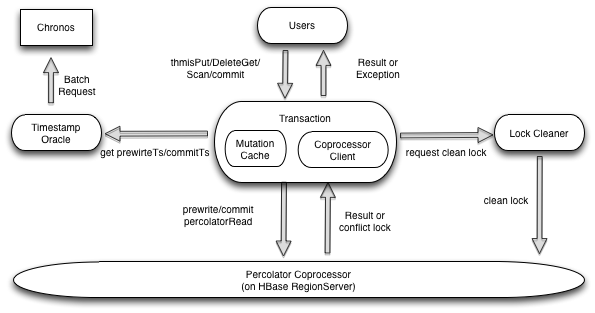
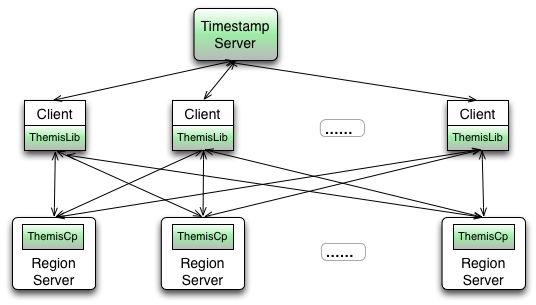
polish readme

Changed region(s): [[0.0, 0.0, 1.0, 1.0], [0.1791, 0.6197, 0.209, 0.6492]]

diff --git a/readme.md b/readme.md
@@ -4,112 +4,56 @@
 
 Themis provides cross-row/cross-table transaction on HBase based on [google's percolator](http://research.google.com/pubs/pub36726.html).
 
-Themis guarantees the ACID characteristics of cross-row transaction by two-phase commit and conflict resolution, which is based on the single-row transaction of HBase. Themis depends on [chronos](https://github.com/XiaoMi/chronos) to provide global strictly incremental timestamp, which defines the global order for transactions and makes themis could read database snapshot before given timestamp. Themis adopts HBase coprocessor framework, which could serve after loading themis coprocessors without changing source code of HBase. The APIs of themis are similar with HBase's, including themisPut/themisDelete/themisGet/themisScan. We validate the correctness of themis for a few months, and try to optimize the [percolator](http://research.google.com/pubs/pub36726.html) algorithm to achieve better performance.
+Themis guarantees the ACID characteristics of cross-row transaction by two-phase commit and conflict resolution, which is based on the single-row transaction of HBase. Themis depends on [Chronos](https://github.com/XiaoMi/chronos) to provide global strictly incremental timestamp, which defines the global order for transactions and makes themis could read database snapshot before given timestamp. Themis adopts HBase coprocessor framework, which could be applied without changing source code of HBase. We validate the correctness of themis for a few months, and optimize the algorithm to achieve better performance.
 
-## Example of Themis API
+## Implementation 
 
-### themisPut 
-
-    Configuration conf = HBaseConfiguration.create();
-    HConnection connection = HConnectionManager.createConnection(conf);
-    Transaction transaction = new Transaction(conf, connection);
-    ThemisPut put = new ThemisPut(ROW).add(FAMILY, QUALIFIER, VALUE);
-    transaction.put(TABLENAME, put);
-    put = new ThemisPut(ANOTHER_ROW).add(FAMILY, QUALIFIER, VALUE);
-    transaction.put(TABLENAME, put);
-    transaction.commit();
-
-### themisDelete 
-
-     Transaction transaction = new Transaction(conf, connection);
-     ThemisDelete delete = new ThemisDelete(ROW);
-     delete.deleteColumn(FAMILY, QUALIFIER);
-     transaction.delete(TABLENAME, delete);
-     delete = new ThemisDelete(ANOTHER_ROW);
-     delete.deleteColumn(FAMILY, QUALIFIER);
-     transaction.delete(TABLENAME, delete);
-     transaction.commit();
-
-In above code, the mutations of two rows will both be applied to HBase and visiable to read after transaction.commit() finished. If transaction.commit() failed, neither of the two mutations will be visiable to read.
-
-### themisGet 
-
-    Transaction transaction = new Transaction(conf, connection);
-    ThemisGet get = new ThemisGet(ROW).addColumn(FAMILY, QUALIFIER);
-    Result resultA = transaction.get(TABLENAME, get);
-    get = new ThemisGet(ANOTHER_ROW).addColumn(FAMILY, QUALIFIER);
-    Result resultB = transaction.get(TABLENAME, get);
-    // themisGet will return consistent results from ROW and ANOTHER_ROW 
-
-### themisScan
-
-    Transaction transaction = new Transaction(conf, connection);
-    ThemisScan scan = new ThemisScan();
-    scan.addColumn(FAMILY, QUALIFIER);
-    ThemisScanner scanner = transaction.getScanner(TABLENAME, scan);
-    Result result = null;
-    while ((result = scanner.next()) != null) {
-      // themisScan will return consistent state of database
-      int value = Bytes.toInt(result.getValue(FAMILY, QUALIFIER));
-    }
-    scanner.close();
-
-Themis will get a timestamp from chronos before transaction starts, and will promise to read the database snapshot before the timestamp.
-
-For more example code, please see [Example.java](https://github.com/XiaoMi/themis/blob/master/themis-client/src/main/java/org/apache/hadoop/hbase/themis/example/Example.java)
-
-## Principal and Implementation 
-
-### Principal
-
-**Themis Write:**
-
-1. Select one column as primaryColumn and others as secondaryColumns from mutations of users. Themis will construct persistent lock for each column.
-2. Prewrite-Phase: get timestamp from chronos(denoted as prewriteTs), write data and persistent lock to HBase with timestamp=prewriteTs when no write/write conflicts discovered.
-3. After prewrite-phase finished, get timestamp from chronos(denoted as commitTs) and commit primaryColumn: erase the persistent lock and write the commit information with timestamp=commitTs if the persistent lock of primaryColumn is not deleted.
-4. After primaryColumn committed, commit secondaryColumns: erase the persistent lock and write the commit information with timestamp=commitTs for each secondaryColumns.
-
-Themis applies transaction mutations by two-phase write(prewrite/commit). The transaction will success and be visiable to read if primaryColumn is committed succesfully; otherwise, the transaction will fail and can't be read.
-
-**Themis Read:**
-
-1. Get timestamp from chronos(named startTs), check the read/write conflicts.
-2. Read the snapshot of database before startTs when there are no read/write conflicts.
-
-Themis provides the guarantee to read all transactions with commitTs smaller than startTs, which is the snapshot of database before startTs.
-
-**Conflict Resolution:**
-
-There might be write/write and read/write conflicts as described. Themis will use the timestamp saved in persistent lock to judge whether the conflict transaction is expired. If the conflict transaction is expired, the current transaction will do rollback or commit for the conflict transaction according to whether the primaryColumn of conflict transcation is committed; otherwise, the current transaction will fail.
-
-Please see [google's percolator](http://research.google.com/pubs/pub36726.html) for more details.
-
-### Themis Implementation
-
-The implementation of Themis adopts the HBase coprocessor framework, the following picture gives the modules of Themis:
+Themis contains three components: timestamp server, client library, themis coprocessor.
 
 ![themis_architecture](https://raw.githubusercontent.com/XiaoMi/themis/master/themis_architecture.png)
 
-**Themis Client:**
+**Timestamp Server**
 
-1. Transaction: provides APIs of themis, including themisPut/themisGet/themisDelete/themisScan/commit.
-2. MutationCache: index the mutations of users by rows in client side.
-3. ThemisCoprocessorClient: the client to access themis coprocessor.
-4. TimestampOracle: the client to query [chronos](https://github.com/XiaoMi/chronos), which will cache the timestamp requests and issue batch request to chronos in one rpc.
-5. LockCleaner: resovle write/write conflict and read/write conflict.
+Themis uses the timestamp of HBase's KeyValue internally, and the timestamp must be global strictly incremental. Themis depends on [chronos](https://github.com/XiaoMi/chronos) to provide such timestamp service.
 
-Themis client will manage the users's mutations by row and invoke methods of ThemisCoprocessorClient to do prewrite/commit for each row.
+**Client Library**
+
+1. Provide transaction APIs.
+2. Fetch timestamp from chronos.
+3. Issue requests to themis coprocessor in server-side.
+4. Resolve conflict for concurrent mutations of other clients.
 
 **Themis Coprocessor:**
 
-1. ThemisProtocol/ThemisCoprocessorImpl: definition and implementation of the themis coprocessor interfaces. The major interfaces are prewrite/commit/themisGet.
-2. ThemisServerScanner/ThemisScanObserver: implement themis scan logic.
-3. ThemisRegionObserver: single-row write optimization, add data clean filter to the scanner of flush and compaction.
-4. ThemisMasterObserver: automatically add lock family when users creating table, set timestamp for data clean periodly.
+1. Provide RPC methods for two-phase commit and read.
+2. Create auxiliary families and set family attributes for the algorithm automatically.
+3. Periodically clean the data of the aborted and expired transactions.
 
 ## Usage 
 
-### Loads themis coprocessor in server side 
+### Build 
+
+1. get the latest source code of Themis:
+
+     ```
+     git clone git@github.com:XiaoMi/themis.git 
+     ```
+
+2. the master branch of Themis depends on hbase 0.94.21 with hadoop.version=2.0.0-alpha. We can download source code of hbase 0.94.21 and install in maven local repository by:
+   
+     ```
+     (in the directory of hbase 0.94.21)
+     mvn clean install -DskipTests -Dhadoop.profile=2.0
+     ```
+
+3. build Themis:
+
+     ```
+     cd themis
+     mvn clean package -DskipTests
+     ```
+
+### Loads themis coprocessor in HBase: 
 
 1. add themis-coprocessor dependency in the pom of HBase:
 
@@ -135,67 +79,163 @@ Themis client will manage the users's mutations by row and invoke methods of The
 
      ```
 
-3. For familiy needs themis, set THEMIS_ENABLE to 'true' by adding "CONFIG => {'THEMIS_ENABLE', 'true'}" to the family descriptor when creating table. 
-
-### Depends themis-client
+### Depends themis-client:
 
 add the themis-client dependency to pom of project which needs cross-row transactions.
 
+     ```
      <dependency>
        <groupId>com.xiaomi.infra</groupId>
        <artifactId>themis-client</artifactId>
        <version>1.0-SNAPSHOT</version>
      </dependency>
+     ```
 
-### Run example code
+### Run the example code
 
-1. the master branch depends on hbase 0.94.21 with hadoop.version=2.0.0-alpha. We need download source code of hbase 0.94.21 and install in maven local repository by(in the directory of hbase 0.94.21):
-   
-     mvn clean install -DskipTests -Dhadoop.profile=2.0
+1. start a standalone HBase cluster(0.94.21 with hadoop.version=2.0.0-alpha) and make sure themis-coprocessor is loaded as above steps.
 
-2. install themis in maven local repository(in the directory of themis):
-
-     mvn clean install -DskipTests
-
-3. start a standalone HBase cluster(0.94.21 with hadoop.version=2.0.0-alpha) and make sure themis-coprocessor is loaded as above steps.
-
-4. run "org.apache.hadoop.hbase.themis.example.Example.java" by:
+2. after building Themis, run example code by:
      
+     ```
      mvn exec:java -Dexec.mainClass="org.apache.hadoop.hbase.themis.example.Example"
+     ```
   
-The result of themisPut/themisGet/themisDelete/themisScan will output to screen.
+The screen will output the result of read and write transactions.
 
-### Themis Options
+## Example of Themis API
 
-**Use Chronos As Timestamp Oracle**
+The APIs of Themis are defined in TransactionInterface.java, including put/delete/get/getScanner, which are similar to HBase's APIs:
 
-Themis will use a LocalTimestampOracle class to provide incremental timestamp for threads in the same process. To use the global incremental timestamp from Chronos, we need the following steps and config:
+     ```
+     public void put(byte[] tableName, ThemisPut put) throws IOException;
+     public void delete(byte[] tableName, ThemisDelete delete) throws IOException;
+     public void commit() throws IOException;
+     public Result get(byte[] tableName, ThemisGet get) throws IOException;
+     public ThemisScanner getScanner(byte[] tableName, ThemisScan scan) throws IOException;
+     ```
 
-1. config and start a Chronos cluster, please see : https://github.com/XiaoMi/chronos/.
+The following code shows how to use Themis APIs:
 
-2. set themis.timestamp.oracle.class to "org.apache.hadoop.hbase.themis.timestamp.RemoteTimestampOracleProxy" in the config of cliet-side. With this config, themis will connect Chronos cluster in local machine.
+     ```
+     // This class shows an example of transfer $3 from Joe to Bob in cash table, where rows of Joe and Bob are
+     // located in different regions. The example will use the 'put' and 'get' APIs of Themis to do transaction.
+     public class Example {
+       private static final byte[] CASHTABLE = Bytes.toBytes("CashTable"); // cash table
+       private static final byte[] JOE = Bytes.toBytes("Joe"); // row for Joe
+       private static final byte[] BOB = Bytes.toBytes("Bob"); // row for Bob
+       private static final byte[][] splits = new byte[][]{Bytes.toBytes("C")};
+       private static final byte[] FAMILY = Bytes.toBytes("Account");
+       private static final byte[] CASH = Bytes.toBytes("cash");
+       private static Configuration conf;
 
-3. The Chronos cluster address could be configed by 'themis.remote.timestamp.server.zk.quorum' and cluster name could be configed by 'themis.remote.timestamp.server.clustername'.
+       public static void main(String args[]) throws IOException {
+         conf = HBaseConfiguration.create();
+         HConnection connection = HConnectionManager.createConnection(conf);
+         // will create 'CashTable' for test, the corresponding shell command is:
+         // create 'CashTable', {NAME=>'ThemisCF', CONFIG => {'THEMIS_ENABLE', 'true'}}
+         createTable(connection);
+
+         {
+           // initialize the accounts, Joe's cash is $20, Bob's cash is $9
+           Transaction transaction = new Transaction(conf, connection);
+           ThemisPut put = new ThemisPut(JOE).add(FAMILY, CASH, Bytes.toBytes(20));
+           transaction.put(CASHTABLE, put);
+           put = new ThemisPut(BOB).add(FAMILY, CASH, Bytes.toBytes(9));
+           transaction.put(CASHTABLE, put);
+           transaction.commit();
+           System.out.println("initialize the accounts, Joe's account is $20, Bob's account is $9");
+         }
+
+         {
+           // transfer $3 from Joe to Bob
+           System.out.println("will transfer $3 from Joe to Bob");
+           Transaction transaction = new Transaction(conf, connection);
+           // firstly, read out the current cash for Joe and Bob
+           ThemisGet get = new ThemisGet(JOE).addColumn(FAMILY, CASH);
+           int cashOfJoe = Bytes.toInt(transaction.get(CASHTABLE, get).getValue(FAMILY, CASH));
+           get = new ThemisGet(BOB).addColumn(FAMILY, CASH);
+           int cashOfBob = Bytes.toInt(transaction.get(CASHTABLE, get).getValue(FAMILY, CASH));
+           System.out.println("firstly, read out cash of the two users, Joe's cash is : $" + cashOfJoe
+               + ", Bob's cash is : $" + cashOfBob);
+
+           // then, transfer $3 from Joe to Bob, the mutations will be cached in client-side
+           int transfer = 3;
+           ThemisPut put = new ThemisPut(JOE).add(FAMILY, CASH, Bytes.toBytes(cashOfJoe - transfer));
+           transaction.put(CASHTABLE, put);
+           put = new ThemisPut(BOB).add(FAMILY, CASH, Bytes.toBytes(cashOfBob + transfer));
+           transaction.put(CASHTABLE, put);
+           // commit the mutations to server-side
+           transaction.commit();
+           System.out.println("then, transfer $3 from Joe to Bob and commit mutations to server-side");
+
+           // lastly, read out the result after transferred
+           transaction = new Transaction(conf, connection);
+           get = new ThemisGet(JOE).addColumn(FAMILY, CASH);
+           cashOfJoe = Bytes.toInt(transaction.get(CASHTABLE, get).getValue(FAMILY, CASH));
+           get = new ThemisGet(BOB).addColumn(FAMILY, CASH);
+           cashOfBob = Bytes.toInt(transaction.get(CASHTABLE, get).getValue(FAMILY, CASH));
+           System.out.println("after cash transferred, read out cash of the two users, Joe's cash is : $" + cashOfJoe
+               + ", Bob's cash is : $" + cashOfBob);
+         }
+
+         connection.close();
+         Transaction.destroy();
+       }
+     }
+     ```
+
+For the full example, please see : org.apache.hadoop.hbase.themis.example.Example.java
+
+## Schema Support
+
+1. Themis will use the timestamp of KeyValue internally, so that the timestamp and version attributes of HBase's KeyValue can't be used by the application.
+2. For families need Themis, set THEMIS_ENABLE to 'true' by adding "CONFIG => {'THEMIS_ENABLE', 'true'}" to the family descriptor when creating table.
+3. For each column, Themis will introduce two auxiliary columns : lock column and commit column. Themis saves the auxiliary columns in specific families : lock column in family 'L', and commit column in family #p(or in family #d if it is a Delete). The character '#' is preserved by Themis and application should not include it in name of the family needing Themis. Themis will create auxiliary families when creating table automically if 'THEMIS_ENABLE' is set on some family.
+
+## Themis Configuration 
+
+### Client Side
+
+**Timestamp server**
+
+If users want strong consistency across client processes, the 'themis.timestamp.oracle.class' should be set to 'RemoteTimestampOracleProxy'. Then, Themis will access globally incremental timestamp from [Chronos](https://github.com/XiaoMi/chronos), the entry of Chronos will be registered in Zookeeper quorum which can also be configured. 
+
+The default value of 'themis.timestamp.oracle.class' is 'LocalTimestampOracle', which provides incremental timestamp in one process. If users only need strong consistency in one clent process, the default value could be used. 
+
+| Key                                        | Description                                        | Default Value        |
+|--------------------------------------------|----------------------------------------------------|----------------------|
+| themis.timestamp.oracle.class              | timestamp server type                              | LocalTimestampOracle |
+| themis.remote.timestamp.server.zk.quorum   | ZK quorum where remote timestamp server registered | 127.0.0.1:2181       |
+| themis.remote.timestamp.server.clustername | cluster name of remote timestamp server            | default-cluster      |
+
+**Lock clean**
+
+The client needs to clean lock if encountering conflict. Users can configure the ttl of lock in client-side by 'themis.client.lock.clean.ttl'. The default value of this configuration is 0, which means the lock ttl will be decided by the server side configurations.
+
+Users can configure 'themis.worker.register.class' to 'ZookeeperWorkerRegister' to help resolve conflict faster. For details of conflict resolve, please see: [Percolator](http://research.google.com/pubs/pub36726.html). 
+
+| Key                                        | Description                                        | Default Value        |
+|--------------------------------------------|----------------------------------------------------|----------------------|
+| themis.client.lock.clean.ttl               | lock ttl configured in client-side                 | 0                    |
+| themis.worker.register.class               | worker register class                              | NullWorkerRegister   |
+| themis.retry.count                         | retry count when clean lock                        | 10                   |
+| themis.pause                               | sleep time between retries                         | 100                  |
+
+### Server Side
 
 **Data Clean Options**
 
-1. Timeout of transaction. The timeout of read/write transaction could be set by 'themis.read.transaction.ttl' and 'themis.write.transaction.ttl' respectively.
+Both read and write transactions should not last too long. Users can set 'themis.transaction.ttl.enable' to decide whether enable transaction ttl. If this configuration is enabled, 'themis.read.transaction.ttl' and 'themis.write.transaction.ttl' could be used to configure the ttl for read transaction and write transaction respectively.
 
-2. Data clean. Old data which could not be read any more will be cleaned periodly if 'themis.expired.data.clean.enable' is enable, and the clean period could be specified by 'themis.expired.timestamp.calculator.period'.
+If users enable transaction ttl, old data may become expired and can not be read by any transaction. Users can set 'themis.expired.data.clean.enable' to decide whether clean such old and expired data from HBase.
 
-These settings could be set in hbase-site.xml of server-side.
-
-**Conflict Resolution Options**
-
-1. As mentioned in [percolator](http://research.google.com/pubs/pub36726.html), failed clients could be detected quickly if "Running workers write a token into the Chubby lockservice" which could help resolve conflict lock more efficiently. In themis, we can set themis.worker.register.class to "org.apache.hadoop.hbase.themis.lockcleaner.ZookeeperWorkerRegister" to enable this function, then, each alive clients will create a emphemeral node in the zookeeper cluster depends by hbase.
-
-2. Themis will retry conflict resolution where retry count could be specified by "themis.retry.count" and the pause between retries could be specified by "themis.pause".
-
-**Customer Filter**
-
-1. Themis use timestamp and version attribute of HBase internally. Therefore, users should not set filters using timestamp or version attribute.
-
-2. For filters only use rowkey, such as PrefixFilter defined in HBase, users could make them implement "RowLevelFilter" interface(defined in themis) which could help do themis read more efficiently. 
+| Key                                        | Description                                        | Default Value        |
+|--------------------------------------------|----------------------------------------------------|----------------------|
+| themis.transaction.ttl.enable              | whether the transaction will be expired            | true                 |
+| themis.read.transaction.ttl                | ttl for read transaction                           | 86400                |
+| themis.write.transaction.ttl               | ttl for write transaction                          | 60                   |
+| themis.expired.data.clean.enable           | enable cleaning the old and expired data           | true                 |
 
 ### MapReduce Support
 
@@ -209,23 +249,7 @@ Themis implement InputFormat and OutputFormat interface in MapReduce framework:
 
 ### Global Secondary Index Support
 
-Based on the cross table data consistency guaranteed by themis transaction, we build an expiremental sub-project "themis-index" to support global secondary index, including:
-
-1. Secondary index could be defined on the column under themis-enable family by setting family attribute as : CONFIG => {'SECONDARY_INDEX_NAMES', 'index_name:qualifier;...'}, and users need the following configuration to support this schema.
-
-     ```
-     <property>
-        <name>hbase.coprocessor.master.classes</name>
-        <value>org.apache.hadoop.hbase.master.ThemisMasterObserver,org.apache.hadoop.hbase.themis.index.cp.IndexMasterObserver</value>
-     </property>
-
-     ```
-
-2. When mutating columns which contain secondary index definitions, mutations corresponding to the index table will be applied automatically.
-
-3. Users could read data by secondary index with IndexGet / IndexScan.
-
-Themis-index is also expiremental, we will improve this sub-project after studying the demands better.
+Based on the cross table data consistency guaranteed by themis transaction, we build an expiremental sub-project "themis-index" to support global secondary index, this sub-project is in progress. 
 
 ## Test 
 
@@ -274,21 +298,6 @@ The above tests are all done in a single region server. From the results, we can
 2. In commit phase, we erase corresponding lock if it exist, write data and commit information at the same time.
 
 The aboving skills make prewrite phase not write HLog, so that improving the write performance a lot for single-column transaction(also for single-row transaction). After applying the skills, if region server restarts after prewrite phase, the commit phase can't read the persistent lock and the transaction will fail, this won't break correctness of the algorithm.
-
-**ConcurrentThemis Result:**
-The prewrite and commit of secondary rows could be implemented concurrently, which could do cross-row transaction more efficiently. We use 'ConcurrentThemis' to represent the concurrent way and 'RawThemis' to represent the original way, then get the efficiency comparsion(we don't pre-load data before this comparsion because we focus on the relative improvement):
-
-| TransactionSize | PutCount | RawThemis AvgTime(us) | ConcurrentThemis AvgTime(us) | Relative Improve |
-|-----------------|--------- |-----------------------|------------------------------|------------------|
-| 2               | 1000000  | 1654.14               | 995.98                       | 1.66             |
-| 4               | 1000000  | 3233.11               | 1297.49                      | 2.50             |
-| 8               | 1000000  | 6470.30               | 1963.47                      | 3.30             |
-| 16              | 1000000  | 13301.50              | 2941.81                      | 4.52             |
-| 32              | 600000   | 28151.37              | 3384.17                      | 7.25             |
-| 64              | 400000   | 51658.58              | 5765.08                      | 8.96             |
-| 128             | 200000   | 103289.95             | 11282.95                     | 9.15             |
-
-TransactionSize is number of rows in one transaction. The 'Relative Improve' is 'RawThemis AvgTime(us)' / 'ConcurrentThemis AvgTime(us)'. We can see ConcurrentThemis performs much better as the TransactionSize increases, however, there is slowdown of improvement when the TransactionSize is bigger than 32.
 
 ## Future Works
 
